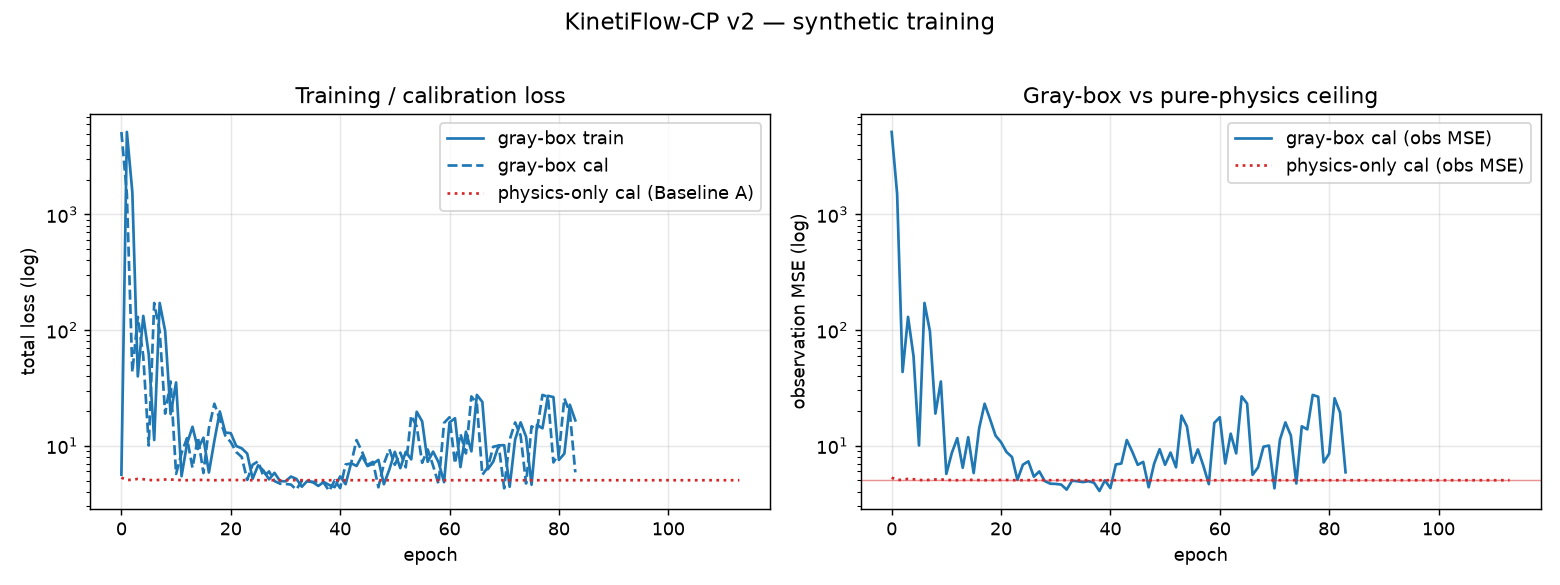
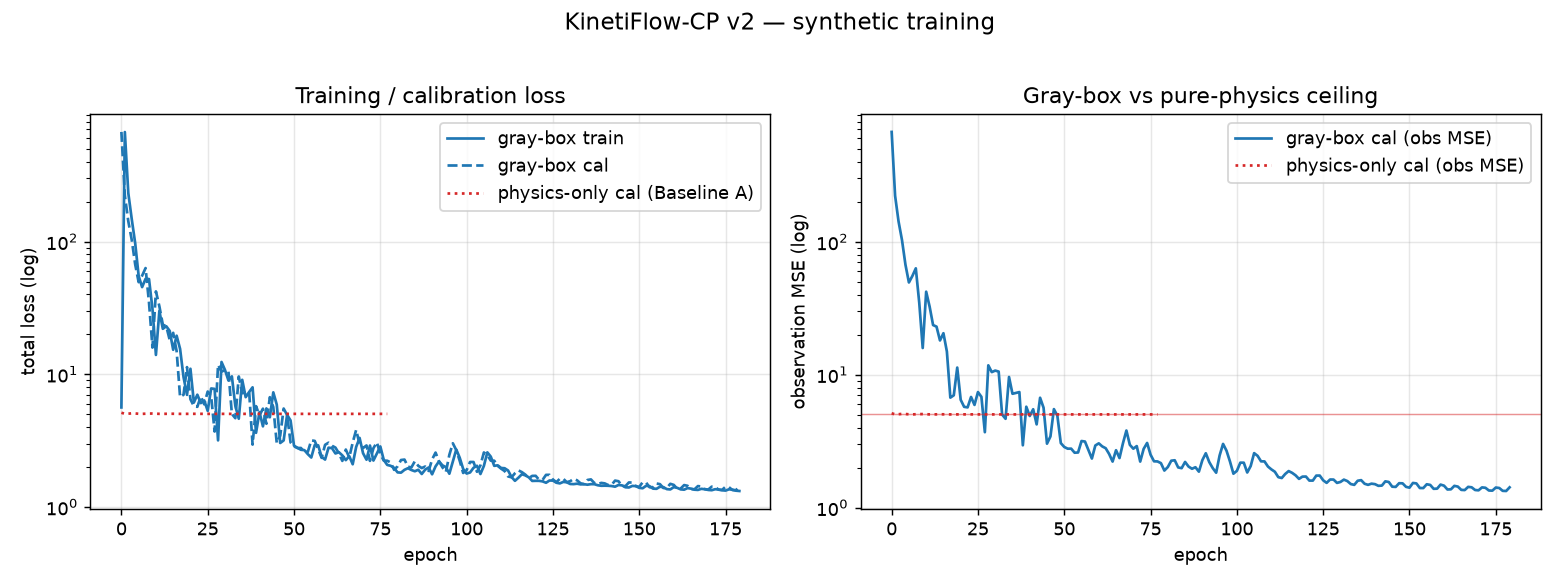
train.py: wire operating-range-matched residual normalization + LR scheduler
The residual was blind to the C_b (cooperative) mismatch because its inputs were
normalized with the ODEConfig defaults (C_b ~ 0.5) while the assay operates at
C_b ~ 0-0.06, so calibration only dropped 21.7% (failed the >50% gate).

- Derive residual input normalization (C_f, C_b, t, T, RH) from a pure-physics
  rollout of the TRAIN split (_set_residual_norm), instead of hardcoded constants,
  so it generalizes to real data. Stats live in the core.res_mean/res_scale
  buffers, which travel with the checkpoint -> inference uses identical norm.
- Build the ReduceLROnPlateau scheduler the dead sched_* config implied and step
  it on the calibration loss each epoch.
- Fix the grad-tensor UserWarning: float(total) -> float(total.detach()).

Result (synthetic): gray-box cal loss 5.03 -> 1.34 (-73.4%, PASS), beats the
physics_only baseline by 73.4%, all gradients finite, checkpoint reloads to
0.00e+00, no warnings.

Repo hygiene: delete scratch probes (_probe2/_probe3.py), stray empty Login file,
and PyCharm boilerplate main.py; gitignore + untrack regenerable binaries
(checkpoints/*.pt, data/synthetic/*.pt).

diff --git a/src/train.py b/src/train.py
@@ -39,24 +39,6 @@ ROOT = Path(__file__).resolve().parents[1]
 CKPT_DIR = ROOT / "checkpoints"
 FIG_DIR = ROOT / "figures"
 
-# Residual input normalization matched to the ACTUAL operating ranges of the
-# synthetic assay (C_f ~ 0-13 ng/mL, C_b ~ 0-0.06 ug/cm^2). The ODEConfig
-# defaults assume C_b ~ 0.5, which compresses the C_b feature to a near-constant
-# and blinds the residual to the cooperative term — matching it is essential for
-# the residual to actually learn the model mismatch.
-#            (C_f,   C_b,   t,     T,    RH)
-RES_MEAN =  (4.0,   0.025, 450.0, 30.0, 55.0)
-RES_SCALE = (5.0,   0.025, 450.0, 3.0,  8.0)
-
-
-def _build_core() -> MechanisticODE:
-    """Identifiable-mode core with operating-range-matched residual normalization
-    and the residual initialized to output exactly zero (pure physics)."""
-    core = MechanisticODE.identifiable(res_mean=RES_MEAN, res_scale=RES_SCALE)
-    _zero_residual_output(core)
-    return core
-
-
 # --------------------------------------------------------------------------- #
 #  Configuration                                                              #
 # --------------------------------------------------------------------------- #
@@ -198,6 +180,37 @@ def init_optics(model: MechanisticODE, meas: MeasurementModel,
 
 
 # --------------------------------------------------------------------------- #
+#  Operating-range-matched residual input normalization                       #
+# --------------------------------------------------------------------------- #
[email redacted]_grad()
+def _set_residual_norm(model: "GrayBoxUDE", meas: MeasurementModel,
+                       bundle: "D.TraceBundle", cfg: TrainConfig,
+                       eps: float = 1e-6) -> None:
+    """Center/scale the residual inputs (C_f, C_b, t, T, RH) to their ACTUAL
+    operating range, measured from a pure-physics rollout of the TRAIN split.
+
+    The ODEConfig default normalization assumes C_b ~ 0.5, but the assay operates
+    at C_b ~ 0-0.06, so C_b collapses to a near-constant feature and the residual
+    is blind to the cooperative-term mismatch. Deriving mean/scale from data (not
+    hardcoded constants) makes this generalize to real strips. This must be called
+    while the residual output is still zeroed, so the rollout is pure physics and
+    independent of the normalization being set. The stats are written into the
+    core.res_mean/res_scale buffers, which travel with the checkpoint so inference
+    uses the identical normalization."""
+    z0, t, _, T_amb, RH = make_batch(bundle, cfg.L0)
+    z, _ = integrate_batch(model, meas, z0, t, T_amb, RH, cfg, use_adjoint=False)
+    C_f, C_b = z[..., 1], z[..., 2]                      # [T, B]
+    feats = torch.stack([
+        C_f, C_b,
+        t.view(-1, 1).expand_as(C_f),
+        T_amb.view(1, -1).expand_as(C_f),
+        RH.view(1, -1).expand_as(C_f),
+    ], dim=-1).reshape(-1, 5)                            # [T*B, 5]
+    model.core.res_mean.copy_(feats.mean(0))
+    model.core.res_scale.copy_(feats.std(0).clamp_min(eps))
+
+
+# --------------------------------------------------------------------------- #
 #  Evaluation                                                                 #
 # --------------------------------------------------------------------------- #
 @torch.no_grad()
@@ -224,6 +237,7 @@ def train(train_bundle: "D.TraceBundle", cal_bundle: "D.TraceBundle",
     if cfg.physics_only:
         core.freeze_residual(True)                 # Baseline A: pure-physics ceiling
 
+    _set_residual_norm(model, meas, train_bundle, cfg)  # operating-range-matched norm
     init_optics(model, meas, train_bundle, cfg)    # scale-correct optics start
 
     params = [{"params": [p for p in model.residual.parameters() if p.requires_grad],
@@ -231,6 +245,9 @@ def train(train_bundle: "D.TraceBundle", cal_bundle: "D.TraceBundle",
               {"params": [meas.alpha, meas.beta], "lr": cfg.lr_optics}]
     params = [g for g in params if len(g["params"]) > 0]
     opt = torch.optim.Adam(params)
+    sched = torch.optim.lr_scheduler.ReduceLROnPlateau(
+        opt, mode="min", factor=cfg.sched_factor,
+        patience=cfg.sched_patience, min_lr=cfg.min_lr)
 
     z0, t, I_target, T_amb, RH = make_batch(train_bundle, cfg.L0)
 
@@ -260,7 +277,8 @@ def train(train_bundle: "D.TraceBundle", cal_bundle: "D.TraceBundle",
         opt.step()
 
         cal_total, cal_parts, _ = eval_loss(model, meas, cal_bundle, cfg)
-        history["train"].append(float(total))
+        sched.step(cal_total)                          # decay residual/optics lr on plateau
+        history["train"].append(float(total.detach()))
         history["cal"].append(cal_total)
         history["train_obs"].append(parts["obs"])
         history["cal_obs"].append(cal_parts["obs"])